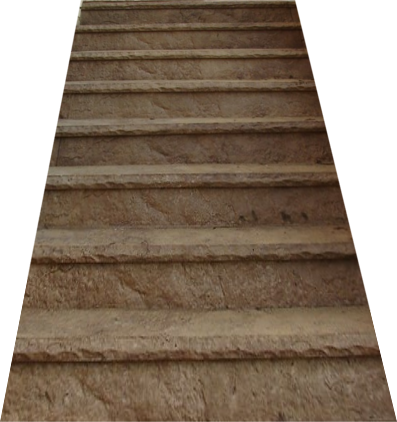
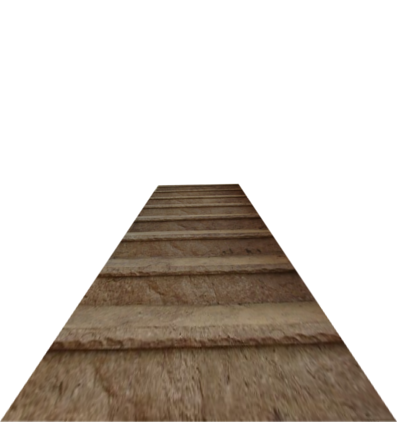
Local Stair code.

diff --git a/GGJ2016/core/src/com/teamsomething/ggj2016/game/GameScreen.java b/GGJ2016/core/src/com/teamsomething/ggj2016/game/GameScreen.java
@@ -36,6 +36,7 @@ public class GameScreen extends Game implements Screen {
 	 private float elapsedTime = 0;
 	private Level level;
 	private int nextFootstep;
+	private Texture stairs = new Texture(Gdx.files.internal("stairs.png"));
 
 	public GameScreen() {
 		leftWallAnimation = new Animation(1/15f, leftWallTextureAtlas.getRegions());
@@ -95,7 +96,8 @@ public class GameScreen extends Game implements Screen {
 			batch.draw(leftFootprintTexture, WIDTH / 2 - footSpacing - 50, 0);
 //			batch.draw(rightWall, 0, 0, WIDTH, HEIGHT);
 //			batch.draw(leftWall, 0, 0, WIDTH, HEIGHT);
-			batch.draw(perspectiveTexture, 0, 0, WIDTH, HEIGHT);
+			batch.draw(stairs , 0, 0, WIDTH, HEIGHT);
+			batch.draw(perspectiveTexture, 0, 0, WIDTH/2, 0, WIDTH, HEIGHT/4, 1, 0, true, true);
 		}
 		batch.end();
 		
